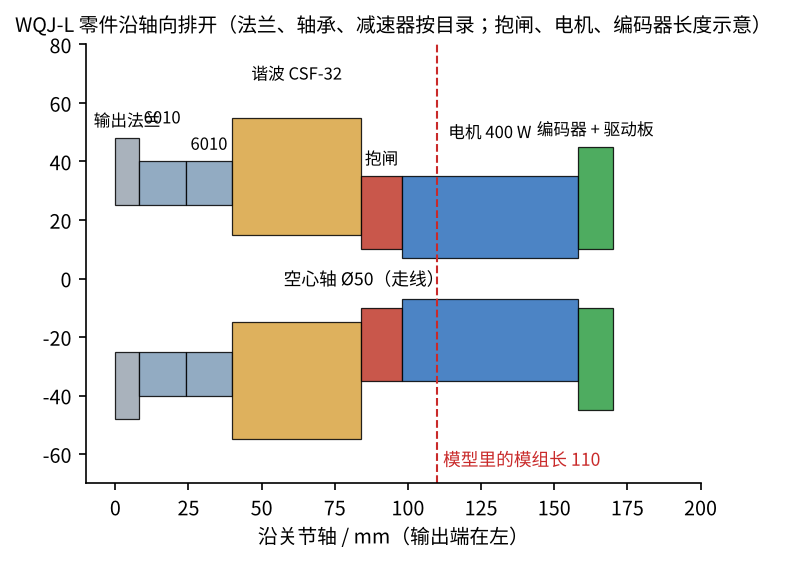
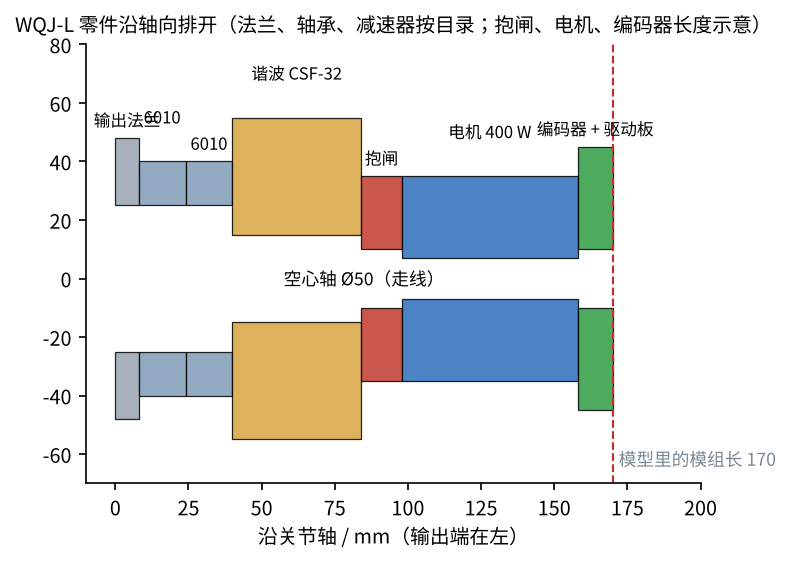
第165轮：大关节模组 WQJ-L 长度按零件排布改为 170 mm（模型及副本）；机器人厂三个案例重新生成
Claude-Session: https://claude.ai/code/session_017txYnaSLwzAGzbT7Kt7sGD

diff --git a/tools/cases/robot_b.py b/tools/cases/robot_b.py
@@ -253,7 +253,7 @@ for k, (name, z0, ln, Do, Di, col) in enumerate(parts):
         ax.add_patch(Rectangle((z0, Di / 2 if sg > 0 else -Do / 2), ln, (Do - Di) / 2, fc=col, ec="k", lw=0.6, alpha=0.85))
     ax.text(z0 + ln / 2, Do / 2 + 4 + (k % 2) * 9, name, ha="center", fontsize=8)
 ax.axvline(H_mod, color=L.BAD, ls="--", lw=1)
-ax.text(H_mod + 2, -64, f"模型里的模组长 {H_mod:.0f}", color=L.BAD, fontsize=8.5)
+ax.text(H_mod + 2, -64, f"模型里的模组长 {H_mod:.0f}", color=L.BAD if H_mod < L_need else L.MUTED, fontsize=8.5)
 ax.text(L_need / 2, 0, "空心轴 Ø50（走线）", ha="center", va="center", fontsize=8.5)
 ax.set_xlim(-10, L_need + 30)
 ax.set_ylim(-70, 80)
@@ -267,15 +267,22 @@ solid = bd.Compound([bd.Pos(0, 0, z0) * (bd.Cylinder(Do / 2, ln, align=A0) - bd.
                     + [(bd.Cylinder(R_mod, L_need, align=A0) - bd.Cylinder(R_mod - 4, L_need, align=A0)) - cut])
 bd.export_step(solid, str(case.path("WQJ-L-示意.step")))
 L.render_solid(solid, case.path("5_三维剖视.png"), elev=25, azim=-50, size=(7, 4.4))
+if H_mod >= L_need:
+    LEN_NOTE = (f"- **模组长度**：零件排下来约 **{L_need:.0f} mm**。最初的动力学模型（`wqcr5.MODULES`）只写了 110 mm——光输出法兰、两只轴承、减速器就占 {L_out:.0f} mm，"
+                f"放不下抱闸、电机和编码器；这个案例发现后，第 165 轮把模型改成 {H_mod:.0f} mm（质量不变，惯量跟着变；案例 A、C 和实验 24–28 已复核）。"
+                "抱闸、电机、编码器的长度还是示意值，电机厂定了 WQ-SM400 的外形后再核一次。")
+    LEN_SHORT = f"零件排下来约 {L_need:.0f} mm，模型已按它改（第 165 轮）；电机外形定了以后再核。"
+else:
+    LEN_NOTE = (f"- **长度对不上**：动力学模型里（`wqcr5.MODULES`）WQJ-L 长 {H_mod:.0f} mm；光输出法兰、两只轴承、减速器就占 {L_out:.0f} mm，"
+                f"只剩 {H_mod - L_out:.0f} mm 给抱闸、电机、编码器和驱动板，放不下。按示意长度排下来约 **{L_need:.0f} mm**，模型要回头改。")
+    LEN_SHORT = f"零件排下来约 {L_need:.0f} mm，模型里只有 {H_mod:.0f} mm——要回头改模型，再复算案例 A。"
 cadmd = f"""# 结构：零件沿轴向排开
 
 {L.md_table(["零件", "长 mm", "外径", "出处"], [[n, f"{ln:g}", f"Ø{Do:g}", src] for n, ln, Do, Di, col, src in STACK])}
 
 - 从输出端起：输出法兰 → 一对 6010（背靠背并排）→ 谐波减速器 CSF-32 → 失电制动抱闸 → 400 W 电机 → 电机端编码器与驱动板；输出端编码器读输出法兰；中间 Ø50 空心轴走线。
 - 模组外径 Ø{2 * R_mod:.0f} 由减速器外径定。
-- **长度对不上**：动力学模型里（`wqcr5.MODULES`）WQJ-L 长 {H_mod:.0f} mm；光输出法兰、两只轴承、减速器就占 {L_out:.0f} mm，
-  只剩 {H_mod - L_out:.0f} mm 给抱闸、电机、编码器和驱动板，放不下。按示意长度排下来约 **{L_need:.0f} mm**。
-  这是整机设计要回头改的数据：模组长度、质量、惯量要等电机厂定了 WQ-SM400 的外形以后更新到模型里（案例 C 和实验 24–28 都用这份模型，改的时候一起核对）。
+{LEN_NOTE}
 - 输出轴承因此只能并排（中心距 = 轴承宽 16 mm），第 3 步按这个跨距算了 J1 的轴承寿命。
 """
 cadmd += f"""
@@ -346,7 +353,7 @@ review = f"""# 总结
 2. 减速器按**平均负载转矩**（决定寿命）和启停峰值核对，不是只看额定。
 3. **刚度在减速器上**：末端变形一大半来自 J2 的谐波减速器扭转，加粗铝管用处不大。
 4. 抱闸保持力矩每只都测，要盖过 J2 最大重力矩的 {W.SAFETY} 倍。
-5. **模组长度要回头改**：零件排下来约 {L_need:.0f} mm，模型里只有 {H_mod:.0f} mm——等电机厂定了 WQ-SM400 的外形，更新模型（质量、惯量跟着变），再复算案例 A。
+5. **模组长度**：{LEN_SHORT}
 
 ## 留给学生的问题
 
@@ -357,7 +364,7 @@ review = f"""# 总结
 
 相关：《机器人学》第 30 章（模组选择）、第 31 章（刚度、模态）、第 32 章（齿轮与谐波传动）；实验 9、24、25；案例 A（选型）、案例 C（整机）。
 """
-case.step("review", f"{sum(c['ok'] for c in case.checks)} / {len(case.checks)} 项校核通过；J2 考减速器、J1 考轴承，刚度在减速器上；模型里的模组长度偏短，要回头改。",
+case.step("review", f"{sum(c['ok'] for c in case.checks)} / {len(case.checks)} 项校核通过；J2 考减速器、J1 考轴承，刚度在减速器上；模组长约 {L_need:.0f} mm。",
           f"{sum(c['ok'] for c in case.checks)} / {len(case.checks)} checks pass; J2 loads the gear, J1 the bearings; stiffness sits in the gear.",
           md=case.text("8_总结.md", review), tools=tools("library"))
 case.write()

diff --git a/docs/实施细则/第165轮_2026-11-13_大关节模组长度按零件排布改为170.md b/docs/实施细则/第165轮_2026-11-13_大关节模组长度按零件排布改为170.md
@@ -1,0 +1,28 @@
+# 实施细则 · 第 165 轮：大关节模组 WQJ-L 长度按零件排布改为 170 mm
+
+日期：2026-11-13
+依据：第 161c 轮机器人厂案例 B 把 WQJ-L 的零件沿轴向排开，发现模型长度放不下；Eddie 11-13 09:02“好”。
+状态：**已完成**。
+
+## 一、决定
+
+| 项目 | 原来 | 改成 | 依据 |
+|---|---|---|---|
+| `cae/wqcr5.py` MODULES["L"] 长 h | 0.110 m | **0.170 m** | 案例 B：输出法兰 8 + 两只 6010 各 16 + CSF-32 44（目录）+ 抱闸 14 + 电机 60 + 编码器与驱动板 12 = 170 mm |
+| 质量 | 3.0 kg | 不变 | 没有新依据，不编 |
+
+- 抱闸、电机、编码器的长度是示意值；电机厂定了 WQ-SM400 的外形后再核一次（不另开轮，届时在电机厂案例里核）。
+- 按规矩 `--sync` 同步 `library/generators/wqcr5.py`、`textbook/robotics/models/mjcf/wqcr5.xml`。
+
+## 二、影响
+
+只有 J1/J2 那只 L 模组的圆柱长度和惯量变（MJCF 里 link1 的惯量 0.0061–0.0091 → 0.0083–0.0133 kg·m²，几何长度 110 → 170 mm），连杆长度（DH）不变。
+机器人厂案例 A：J1 的 M_max 8.303 → 8.308 kg·m²，连续需求 19.2 → 19.3 N·m，其余不变；案例 B 的结构一节改成“模型已按排布改为 170”；案例 C 的三维跟着变。
+
+## 三、验收
+
+| 项目 | 结果 |
+|---|---|
+| 数字工厂测试（本机全部） | ✓ 804 通过、271 跳过（实验 9、24–28 相关的测试都在内） |
+| 机器人厂案例 A、B、C 重新生成 | ✓ 7 / 10 / 7 项全过 |
+| 同步零件库仓库、上线 | |

diff --git a/factory/cases/robot/B/5_结构.md b/factory/cases/robot/B/5_结构.md
@@ -12,9 +12,7 @@
 
 - 从输出端起：输出法兰 → 一对 6010（背靠背并排）→ 谐波减速器 CSF-32 → 失电制动抱闸 → 400 W 电机 → 电机端编码器与驱动板；输出端编码器读输出法兰；中间 Ø50 空心轴走线。
 - 模组外径 Ø110 由减速器外径定。
-- **长度对不上**：动力学模型里（`wqcr5.MODULES`）WQJ-L 长 110 mm；光输出法兰、两只轴承、减速器就占 84 mm，
-  只剩 26 mm 给抱闸、电机、编码器和驱动板，放不下。按示意长度排下来约 **170 mm**。
-  这是整机设计要回头改的数据：模组长度、质量、惯量要等电机厂定了 WQ-SM400 的外形以后更新到模型里（案例 C 和实验 24–28 都用这份模型，改的时候一起核对）。
+- **模组长度**：零件排下来约 **170 mm**。最初的动力学模型（`wqcr5.MODULES`）只写了 110 mm——光输出法兰、两只轴承、减速器就占 84 mm，放不下抱闸、电机和编码器；这个案例发现后，第 165 轮把模型改成 170 mm（质量不变，惯量跟着变；案例 A、C 和实验 24–28 已复核）。抱闸、电机、编码器的长度还是示意值，电机厂定了 WQ-SM400 的外形后再核一次。
 - 输出轴承因此只能并排（中心距 = 轴承宽 16 mm），第 3 步按这个跨距算了 J1 的轴承寿命。
 
 ## 用到的零件库零件

diff --git a/factory/cases/robot/B/8_总结.md b/factory/cases/robot/B/8_总结.md
@@ -11,7 +11,7 @@
 | ✓ | 抱闸保持力矩需求不超过测试下限 | 116 N·m | <= 160 | 关节测试台 |
 | ✓ | 电机均方根力矩 / 额定 | 0.565  | <= 1 | 电机选型助手 |
 | ✓ | 末端重力变形 | 2.43 mm | <= 5 | 本案例设定（标定前可补偿） |
-| ✓ | 输出法兰、轴承、减速器的长度不超过模组长度 | 84 mm | <= 110 | 动力学模型 wqcr5.MODULES |
+| ✓ | 输出法兰、轴承、减速器的长度不超过模组长度 | 84 mm | <= 170 | 动力学模型 wqcr5.MODULES |
 | ✓ | 20 只测量不合格数 | 0  | == 0 | 关节测试台 |
 | ✓ | 最低过程能力 Cpk | 1.35  | >= 1.33 | 常用要求 |
 
@@ -21,7 +21,7 @@
 2. 减速器按**平均负载转矩**（决定寿命）和启停峰值核对，不是只看额定。
 3. **刚度在减速器上**：末端变形一大半来自 J2 的谐波减速器扭转，加粗铝管用处不大。
 4. 抱闸保持力矩每只都测，要盖过 J2 最大重力矩的 1.2 倍。
-5. **模组长度要回头改**：零件排下来约 170 mm，模型里只有 110 mm——等电机厂定了 WQ-SM400 的外形，更新模型（质量、惯量跟着变），再复算案例 A。
+5. **模组长度**：零件排下来约 170 mm，模型已按它改（第 165 轮）；电机外形定了以后再核。
 
 ## 留给学生的问题
 

diff --git a/factory/cases/robot/B/1_任务书.md b/factory/cases/robot/B/1_任务书.md
@@ -7,7 +7,7 @@
 | 峰值力矩需求 | 63 N·m | 177 N·m | 案例 A（含安全系数 1.2） |
 | 连续力矩需求 | 19 N·m | 64 N·m | 案例 A |
 | 手臂伸直、5 kg 时的重力载荷 | 轴向 166 N、倾覆力矩 **92 N·m** | 径向 131 N、驱动力矩 91 N·m | `wqcr5.joint_loads` |
-| 外形 | Ø110 × 110 mm，3 kg | 同左 | `wqcr5.MODULES` |
+| 外形 | Ø110 × 170 mm，3 kg | 同左 | `wqcr5.MODULES` |
 | 寿命（本案例设定） | 20,000 h | 同左 | 两班、约五年 |
 | 抱闸 | 断电时保持手臂不掉 | 同左 | 协作机器人安全要求 |
 

diff --git a/factory/cases/robot/A/3_计算.md b/factory/cases/robot/A/3_计算.md
@@ -6,7 +6,7 @@
 
 | 关节 | 模组 | g_max N·m | M_max kg·m² | 峰值需求 | 峰值能力 | 利用率 | 连续需求 | 额定能力 | 利用率 |
 |---|---|---|---|---|---|---|---|---|---|
-| J1 | WQJ-L | 0.0 | 8.303 | 62.6 | 333 | 0.19 | 19.2 | 95.2 | 0.20 |
+| J1 | WQJ-L | 0.0 | 8.308 | 62.6 | 333 | 0.19 | 19.3 | 95.2 | 0.20 |
 | J2 | WQJ-L | 96.3 | 8.113 | 176.7 | 333 | 0.53 | 64.5 | 95.2 | 0.68 |
 | J3 | WQJ-M | 46.0 | 2.342 | 72.9 | 157 | 0.46 | 46.5 | 47.8 | 0.97 |
 | J4 | WQJ-S | 11.5 | 0.250 | 15.7 | 54 | 0.29 | 7.1 | 23.9 | 0.30 |

diff --git a/factory/cases/robot/A/5_三维.md b/factory/cases/robot/A/5_三维.md
@@ -4,7 +4,7 @@
 
 | 模组 | 物料 | 电机 | 谐波减速器 | 质量 | 外形 | 装在 |
 |---|---|---|---|---|---|---|
-| L | WQJ-L | 伺服 400 W | 谐波 32 号 | 3 kg | Ø110 × 110 | J1、J2 |
+| L | WQJ-L | 伺服 400 W | 谐波 32 号 | 3 kg | Ø110 × 170 | J1、J2 |
 | M | WQJ-M | 伺服 200 W | 谐波 25 号 | 2 kg | Ø90 × 95 | J3 |
 | S | WQJ-S | 伺服 100 W | 谐波 17 号 | 1.2 kg | Ø70 × 80 | J4、J5、J6 |
 
